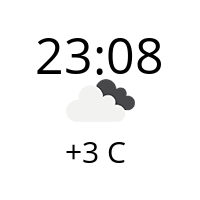
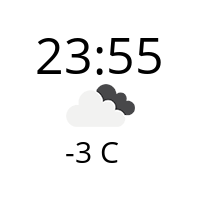
a long way from requests to aiohttp...

Changed region(s): [[0.48, 0.18, 0.81, 0.6], [0.33, 0.69, 0.63, 0.84]]

diff --git a/AvatarGenerator.py b/AvatarGenerator.py
@@ -1,9 +1,9 @@
 # -*- coding: utf-8 -*-
 
-import requests
 import json
 import config
 import os
+import aiohttp
 from datetime import datetime as dt
 from typing import Union
 from PIL import Image, ImageDraw, ImageFont
@@ -18,30 +18,31 @@ class AvatarGenerator(object):
     __last_temperature: str = "270"
     __last_icon: str = "04n"
 
-    __text_color = (0, 0, 0)
-    __bg_color = (255, 255, 255)
+    __text_color: tuple
+    __bg_color: tuple
 
-    def __init__(self, api_token, api_url, image_url, text_color, bg_color):
+    def __init__(self, api_token, api_url, image_url, text_color=(0, 0, 0), bg_color=(255, 255, 255)):
         self.__api_token = api_token
         self.__api_url = api_url
         self.__image_url = image_url
         self.__text_color = text_color
         self.__bg_color = bg_color
 
-    def update_weather_data(self, city_id=524901):
+    async def update_weather_data(self, city_id=524901):
         payload = {
             "id": city_id,
             "appid": self.__api_token,
         }
-        response = requests.get(
-            url=self.__api_url,
-            params=payload,
-        )
-        if response.status_code == 200:
-            data = json.loads(response.content.decode("utf-8"))
-            self.__last_temperature = data["main"]["temp"]
-            self.__last_icon = data["weather"][0]["icon"]
-            self.__check_weather_image(self.__last_icon)
+        async with aiohttp.ClientSession() as session:
+            async with session.get(
+                url=self.__api_url,
+                params=payload,
+            ) as response:
+                if response.status == 200:
+                    data = await response.json(encoding="utf-8")
+                    self.__last_temperature = data["main"]["temp"]
+                    self.__last_icon = data["weather"][0]["icon"]
+                    await self.__check_weather_image(self.__last_icon)
         return self.__last_temperature, self.__last_icon
 
     @staticmethod
@@ -49,13 +50,14 @@ class AvatarGenerator(object):
         img_path = os.path.join(os.getcwd(), "API_Icons", image_name+".png")
         return os.path.exists(img_path)
 
-    def __check_weather_image(self, image_name=""):
+    async def __check_weather_image(self, image_name=""):
         if not self.__weather_image_exists(image_name):
             url = self.__image_url.format(image_name)
-            response = requests.get(url=url)
-            if response.status_code == 200:
-                with open(os.path.join(os.getcwd(), "API_Icons", image_name+".png"), "wb") as f:
-                    f.write(response.content)
+            async with aiohttp.ClientSession() as session:
+                async with session.get(url=url) as response:
+                    if response.status == 200:
+                        with open(os.path.join(os.getcwd(), "API_Icons", image_name+".png"), "wb") as f:
+                            f.write(await response.read())
         return None
 
     @staticmethod
@@ -63,7 +65,7 @@ class AvatarGenerator(object):
         t_kelvin = int(t_kelvin)
         t_celsius = t_kelvin-273
         result = u"{} C".format(str(t_celsius))
-        if t_celsius >= 0:
+        if t_celsius > 0:
             result = "+" + result
         return result
 
@@ -82,7 +84,7 @@ class AvatarGenerator(object):
         # set time into "hh:mm" format
         time = "{:0>2d}:{:0>2d}".format(dt.now().hour, dt.now().minute)
         # blend images
-        bg.paste(icon, (50, 50), icon)
+        bg.paste(icon, (50, 55), icon)
         # draw text on canvas
         canvas.text((35, 20), time, font=font_time, fill=self.__text_color)
         canvas.text((65, 130), temperature, font=font_temperature, fill=self.__text_color)
@@ -97,5 +99,7 @@ if __name__ == "__main__":
         api_token=config.openweather_api_key,
         api_url=config.openweather_api_url,
         image_url=config.openweather_api_image_url,
+        text_color=config.txt_color,
+        bg_color=config.bg_color,
     )
     generator.generate()

diff --git a/main.py b/main.py
@@ -42,7 +42,6 @@ if __name__ == "__main__":
         phone=lambda: config.tg_phone,
         password=lambda: config.tg_pass,
     )
-    client.send_message('me', "TEST")
 
     scheduler = AsyncIOScheduler()
     scheduler.add_job(
